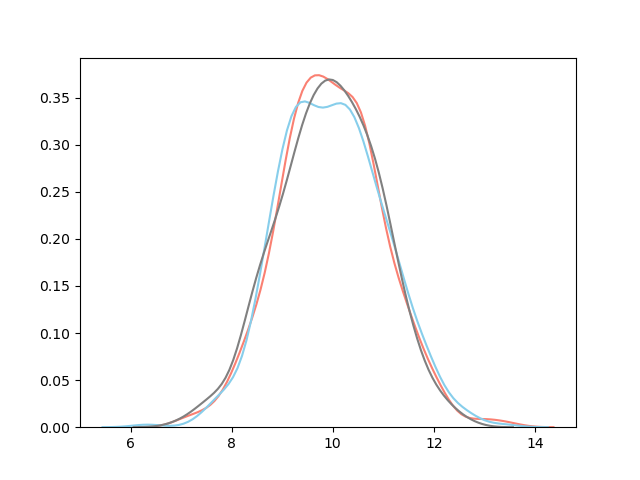
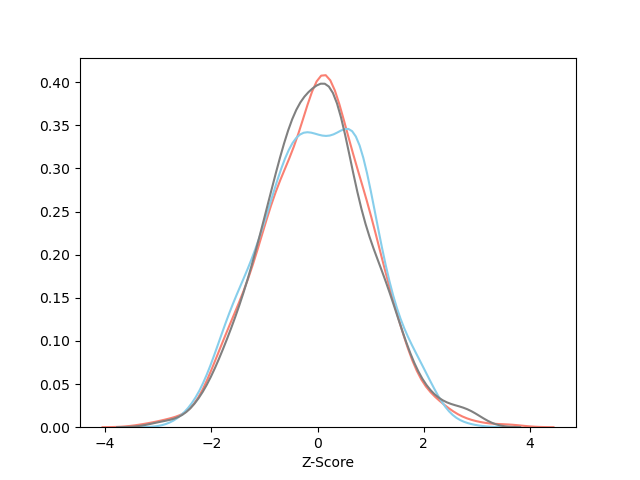
New IMs.

diff --git a/GNSS_Cleaning.py b/GNSS_Cleaning.py
@@ -4,6 +4,8 @@ from statistics import stdev
 from GNSSCleaner_Class import GNSSCleaner
 from Generate_Data import X_raw, Y_raw, Z_raw
 import seaborn as sns
+from scipy.stats import zscore
+
 
 if __name__=="__main__":
 
@@ -28,13 +30,14 @@ if __name__=="__main__":
     ax.set_xlim3d(5, 15)
     ax.set_ylim3d(5, 15)
     ax.set_zlim3d(5, 15)
-    plt.savefig(str(title) + ".png")
+    plt.savefig('Plots/'+"Raw Data ZScores" + ".png")
     plt.show()
 
-    sns.distplot(X_raw, hist=False, color="salmon")
-    sns.distplot(Y_raw, hist=False, color="skyblue" )
-    sns.distplot(Z_raw, hist=False, color="grey")
-    plt.savefig(str(title) + " distribution.png")
+    sns.distplot(zscore(X_raw), hist=False, color="salmon")
+    sns.distplot(zscore(Y_raw), hist=False, color="skyblue" )
+    sns.distplot(zscore(Z_raw), hist=False, color="grey")
+    plt.xlabel('Z-Score')
+    plt.savefig('Plots/'+str(title) + " distribution.png")
     plt.show()
 
     """
@@ -50,7 +53,7 @@ if __name__=="__main__":
     fig = plt.figure()
     ax = fig.add_subplot(111, projection='3d')
     ax.grid(False)
-    title = "First Iteration"
+    title = "First Iteration Zscores"
     ax.scatter(x_out, y_out, z_out, color="skyblue")
     ax.scatter(np.average(x_out), np.average(y_out), np.average(z_out), color="salmon", s=sd)
     ax.set_xlabel('X')
@@ -60,14 +63,15 @@ if __name__=="__main__":
     ax.set_xlim3d(5, 15)
     ax.set_ylim3d(5, 15)
     ax.set_zlim3d(5, 15)
-    plt.savefig(str(title) + ".png")
+    plt.savefig('Plots/'+str(title) + ".png")
     plt.show()
 
-    sns.distplot(x_out, hist=False, color="salmon")
-    sns.distplot(y_out, hist=False, color="skyblue" )
-    sns.distplot(z_out, hist=False, color="grey")
+    sns.distplot(zscore(x_out), hist=False, color="salmon")
+    sns.distplot(zscore(y_out), hist=False, color="skyblue" )
+    sns.distplot(zscore(z_out), hist=False, color="grey")
     plt.legend()
-    plt.savefig(str(title) + " distribution.png")
+    plt.xlabel('Z-Score')
+    plt.savefig('Plots/'+str(title) + " distribution.png")
     plt.show()
 
     """
@@ -93,12 +97,13 @@ if __name__=="__main__":
     ax.set_xlim3d(5, 15)
     ax.set_ylim3d(5, 15)
     ax.set_zlim3d(5, 15)
-    plt.savefig(str(title) + ".png")
+    plt.savefig('Plots/'+str(title) + ".png")
     plt.show()
 
-    sns.distplot(x_out, hist=False, color="salmon")
-    sns.distplot(y_out, hist=False, color="skyblue" )
-    sns.distplot(z_out, hist=False, color="grey")
-    plt.savefig(str(title) + " distribution.png")
+    sns.distplot(zscore(x_out), hist=False, color="salmon")
+    sns.distplot(zscore(y_out), hist=False, color="skyblue" )
+    sns.distplot(zscore(z_out), hist=False, color="grey")
+    plt.xlabel('Z-Score')
+    plt.savefig('Plots/'+str(title) + " distribution.png")
     plt.show()
 
